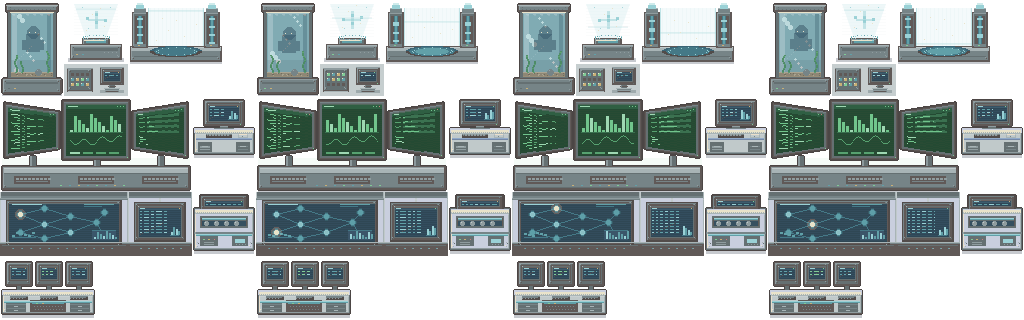
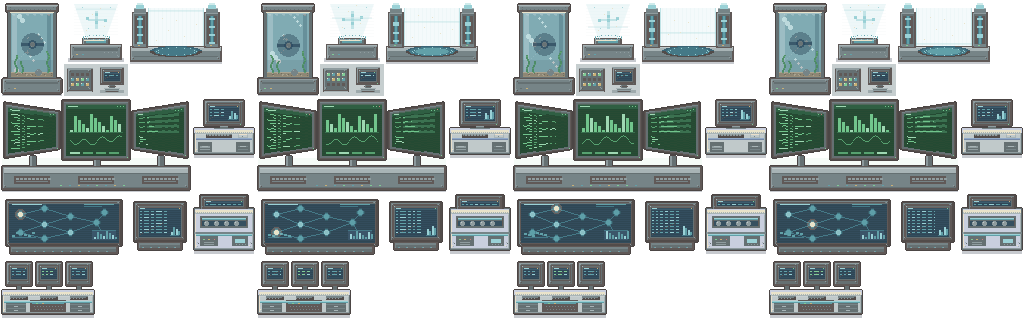
Update Overworld_map.js, tiles.js, lab_static.png … (editor)

diff --git a/js/Overworld_map.js b/js/Overworld_map.js
@@ -1728,8 +1728,8 @@ window.OverworldMaps = {
     "events": {
       "NPC_1": {
         "eventType": "NPC",
-        "xPos": 8,
-        "yPos": 3,
+        "xPos": 11,
+        "yPos": 5,
         "owID": "Trainer_1",
         "script": "",
         "movementType": "MOVEMENT_TYPE_SPIN_CLOCKWISE",
@@ -1737,12 +1737,12 @@ window.OverworldMaps = {
         "viewRadius": 3,
         "flagID": "",
         "spriteFx": "holo",
-        "fxColor": "blue"
+        "fxColor": "purple"
       },
       "Warp_1": {
         "eventType": "Warp",
-        "xPos": 4,
-        "yPos": 7,
+        "xPos": 6,
+        "yPos": 10,
         "map": "Olenburg City",
         "facing": "Up",
         "warpType": "Normal",
@@ -1750,8 +1750,8 @@ window.OverworldMaps = {
       },
       "Warp_1_copy": {
         "eventType": "Warp",
-        "xPos": 5,
-        "yPos": 7,
+        "xPos": 7,
+        "yPos": 10,
         "map": "Olenburg City",
         "facing": "Up",
         "warpType": "Normal",
@@ -1789,17 +1789,17 @@ window.OverworldMaps = {
       ]
     },
     "tileData_1": [
-      ["101|0|0", "101|0|0", "101|0|0", "101|0|0", "101|0|0", "101|0|0", "101|0|0", "101|0|0", "101|0|0", "101|0|0", "101|0|0", "101|32|1", "101|32|1", "101|32|1", "101|32|1", "101|32|1", "101|32|1", "101|32|1", "101|32|1", "101|32|1", "101|32|1", "101|32|1", "101|32|1", "101|32|1", "101|32|1", "101|32|1", "101|32|1", "101|32|1", "101|32|1", "101|32|1"],
-      ["101|14|0", "101|0|0", "101|0|0", "101|0|0", "101|0|0", "101|0|0", "101|0|0", "101|0|0", "101|0|0", "101|0|0", "101|0|0", "101|32|1", "101|32|1", "101|32|1", "101|32|1", "101|32|1", "101|32|1", "101|32|1", "101|32|1", "101|32|1", "101|32|1", "101|32|1", "101|32|1", "101|32|1", "101|32|1", "101|32|1", "101|32|1", "101|32|1", "101|32|1", "101|32|1"],
-      ["101|0|0", "101|0|0", "101|0|0", "101|0|0", "101|0|0", "101|0|0", "101|0|0", "101|0|0", "101|0|0", "101|0|0", "101|0|0", "101|32|1", "101|32|1", "101|32|1", "101|32|1", "101|32|1", "101|32|1", "101|32|1", "101|32|1", "101|32|1", "101|32|1", "101|32|1", "101|32|1", "101|32|1", "101|32|1", "101|32|1", "101|32|1", "101|32|1", "101|32|1", "101|32|1"],
-      ["101|0|0", "101|0|0", "101|0|0", "101|0|0", "101|0|0", "101|0|0", "101|0|0", "101|0|0", "101|0|0", "101|4|0", "101|0|0", "101|32|1", "101|32|1", "101|32|1", "101|32|1", "101|32|1", "101|32|1", "101|32|1", "101|32|1", "101|32|1", "101|32|1", "101|32|1", "101|32|1", "101|32|1", "101|32|1", "101|32|1", "101|32|1", "101|32|1", "101|32|1", "101|32|1"],
-      ["101|0|0", "101|0|0", "101|0|0", "101|0|0", "101|0|0", "101|0|0", "101|0|0", "101|0|0", "101|0|0", "101|4|0", "101|0|0", "101|32|1", "101|32|1", "101|32|1", "101|32|1", "101|32|1", "101|32|1", "101|32|1", "101|32|1", "101|32|1", "101|32|1", "101|32|1", "101|32|1", "101|32|1", "101|32|1", "101|32|1", "101|32|1", "101|32|1", "101|32|1", "101|32|1"],
-      ["101|3|0", "101|3|0", "101|3|0", "101|3|0", "101|3|0", "101|3|0", "101|3|0", "101|3|0", "101|3|0", "101|5|0", "101|3|0", "101|32|1", "101|32|1", "101|32|1", "101|32|1", "101|32|1", "101|32|1", "101|32|1", "101|32|1", "101|32|1", "101|32|1", "101|32|1", "101|32|1", "101|32|1", "101|32|1", "101|32|1", "101|32|1", "101|32|1", "101|32|1", "101|32|1"],
-      ["101|0|0", "101|0|0", "101|0|0", "101|0|0", "101|0|0", "101|0|0", "101|0|0", "101|0|0", "101|0|0", "101|4|0", "101|0|0", "101|32|1", "101|32|1", "101|32|1", "101|32|1", "101|32|1", "101|0|0", "101|0|0", "101|0|0", "101|0|0", "101|0|0", "101|0|0", "101|0|0", "101|0|0", "101|0|0", "101|0|0", "101|0|0", "101|0|0", "101|0|0", "101|0|0"],
-      ["101|0|0", "101|0|0", "101|0|0", "101|0|0", "101|0|0", "101|0|0", "101|0|0", "101|0|0", "101|0|0", "101|0|0", "101|0|0", "101|32|1", "101|32|1", "101|32|1", "101|32|1", "101|32|1", "101|0|0", "101|0|0", "101|0|0", "101|0|0", "101|0|0", "101|0|0", "101|0|0", "101|0|0", "101|0|0", "101|0|0", "101|0|0", "101|0|0", "101|0|0", "101|0|0"],
-      ["101|32|1", "101|32|1", "101|32|1", "101|32|1", "101|32|1", "101|32|1", "101|32|1", "101|32|1", "101|32|1", "101|32|1", "101|32|1", "101|32|1", "101|32|1", "101|32|1", "101|32|1", "101|32|1", "101|0|0", "101|0|0", "101|0|0", "101|0|0", "101|0|0", "101|0|0", "101|0|0", "101|0|0", "101|0|0", "101|0|0", "101|0|0", "101|0|0", "101|0|0", "101|0|0"],
-      ["101|32|1", "101|32|1", "101|32|1", "101|32|1", "101|32|1", "101|32|1", "101|32|1", "101|32|1", "101|32|1", "101|32|1", "101|32|1", "101|32|1", "101|32|1", "101|32|1", "101|32|1", "101|32|1", "101|0|0", "101|0|0", "101|0|0", "101|0|0", "101|0|0", "101|0|0", "101|0|0", "101|0|0", "101|0|0", "101|0|0", "101|0|0", "101|0|0", "101|0|0", "101|0|0"],
-      ["101|32|1", "101|32|1", "101|32|1", "101|32|1", "101|32|1", "101|32|1", "101|32|1", "101|32|1", "101|32|1", "101|32|1", "101|32|1", "101|32|1", "101|32|1", "101|32|1", "101|32|1", "101|32|1", "101|0|0", "101|0|0", "101|0|0", "101|0|0", "101|0|0", "101|0|0", "101|0|0", "101|0|0", "101|0|0", "101|0|0", "101|0|0", "101|0|0", "101|0|0", "101|0|0"],
+      ["101|0|0", "101|0|0", "101|0|0", "101|0|0", "101|0|0", "101|0|0", "101|0|0", "101|0|0", "101|0|0", "101|0|0", "101|0|0", "101|0|0", "101|0|0", "101|32|1", "101|32|1", "101|32|1", "101|32|1", "101|32|1", "101|32|1", "101|32|1", "101|32|1", "101|32|1", "101|32|1", "101|32|1", "101|32|1", "101|32|1", "101|32|1", "101|32|1", "101|32|1", "101|32|1"],
+      ["101|14|0", "101|0|0", "101|0|0", "101|0|0", "101|0|0", "101|0|0", "101|0|0", "101|0|0", "101|0|0", "101|0|0", "101|0|0", "101|0|0", "101|0|0", "101|32|1", "101|32|1", "101|32|1", "101|32|1", "101|32|1", "101|32|1", "101|32|1", "101|32|1", "101|32|1", "101|32|1", "101|32|1", "101|32|1", "101|32|1", "101|32|1", "101|32|1", "101|32|1", "101|32|1"],
+      ["101|0|0", "101|0|0", "101|0|0", "101|0|0", "101|0|0", "101|0|0", "101|0|0", "101|0|0", "101|0|0", "101|0|0", "101|0|0", "101|0|0", "101|0|0", "101|32|1", "101|32|1", "101|32|1", "101|32|1", "101|32|1", "101|32|1", "101|32|1", "101|32|1", "101|32|1", "101|32|1", "101|32|1", "101|32|1", "101|32|1", "101|32|1", "101|32|1", "101|32|1", "101|32|1"],
+      ["101|0|0", "101|0|0", "101|0|0", "101|0|0", "101|0|0", "101|0|0", "101|0|0", "101|0|0", "101|0|0", "101|4|0", "101|0|0", "101|0|0", "101|0|0", "101|32|1", "101|32|1", "101|32|1", "101|32|1", "101|32|1", "101|32|1", "101|32|1", "101|32|1", "101|32|1", "101|32|1", "101|32|1", "101|32|1", "101|32|1", "101|32|1", "101|32|1", "101|32|1", "101|32|1"],
+      ["101|0|0", "101|0|0", "101|0|0", "101|0|0", "101|0|0", "101|0|0", "101|0|0", "101|0|0", "101|0|0", "101|4|0", "101|0|0", "101|0|0", "101|0|0", "101|32|1", "101|32|1", "101|32|1", "101|32|1", "101|32|1", "101|32|1", "101|32|1", "101|32|1", "101|32|1", "101|32|1", "101|32|1", "101|32|1", "101|32|1", "101|32|1", "101|32|1", "101|32|1", "101|32|1"],
+      ["101|3|0", "101|3|0", "101|3|0", "101|3|0", "101|3|0", "101|3|0", "101|3|0", "101|3|0", "101|3|0", "101|5|0", "101|3|0", "101|3|0", "101|3|0", "101|32|1", "101|32|1", "101|32|1", "101|32|1", "101|32|1", "101|32|1", "101|32|1", "101|32|1", "101|32|1", "101|32|1", "101|32|1", "101|32|1", "101|32|1", "101|32|1", "101|32|1", "101|32|1", "101|32|1"],
+      ["101|0|0", "101|0|0", "101|0|0", "101|0|0", "101|0|0", "101|0|0", "101|0|0", "101|0|0", "101|0|0", "101|4|0", "101|0|0", "101|0|0", "101|0|0", "101|32|1", "101|32|1", "101|32|1", "101|0|0", "101|0|0", "101|0|0", "101|0|0", "101|0|0", "101|0|0", "101|0|0", "101|0|0", "101|0|0", "101|0|0", "101|0|0", "101|0|0", "101|0|0", "101|0|0"],
+      ["101|0|0", "101|0|0", "101|0|0", "101|0|0", "101|0|0", "101|0|0", "101|0|0", "101|0|0", "101|0|0", "101|4|0", "101|0|0", "101|0|0", "101|0|0", "101|32|1", "101|32|1", "101|32|1", "101|0|0", "101|0|0", "101|0|0", "101|0|0", "101|0|0", "101|0|0", "101|0|0", "101|0|0", "101|0|0", "101|0|0", "101|0|0", "101|0|0", "101|0|0", "101|0|0"],
+      ["101|0|0", "101|0|0", "101|0|0", "101|0|0", "101|0|0", "101|0|0", "101|0|0", "101|0|0", "101|0|0", "101|4|0", "101|0|0", "101|0|0", "101|0|0", "101|32|1", "101|32|1", "101|32|1", "101|0|0", "101|0|0", "101|0|0", "101|0|0", "101|0|0", "101|0|0", "101|0|0", "101|0|0", "101|0|0", "101|0|0", "101|0|0", "101|0|0", "101|0|0", "101|0|0"],
+      ["101|0|0", "101|0|0", "101|0|0", "101|0|0", "101|0|0", "101|0|0", "101|0|0", "101|0|0", "101|0|0", "101|4|0", "101|0|0", "101|0|0", "101|0|0", "101|32|1", "101|32|1", "101|32|1", "101|0|0", "101|0|0", "101|0|0", "101|0|0", "101|0|0", "101|0|0", "101|0|0", "101|0|0", "101|0|0", "101|0|0", "101|0|0", "101|0|0", "101|0|0", "101|0|0"],
+      ["101|0|0", "101|0|0", "101|0|0", "101|0|0", "101|0|0", "101|0|0", "101|0|0", "101|0|0", "101|0|0", "101|4|0", "101|0|0", "101|0|0", "101|0|0", "101|32|1", "101|32|1", "101|32|1", "101|0|0", "101|0|0", "101|0|0", "101|0|0", "101|0|0", "101|0|0", "101|0|0", "101|0|0", "101|0|0", "101|0|0", "101|0|0", "101|0|0", "101|0|0", "101|0|0"],
       ["101|32|1", "101|32|1", "101|32|1", "101|32|1", "101|32|1", "101|32|1", "101|32|1", "101|32|1", "101|32|1", "101|32|1", "101|32|1", "101|32|1", "101|32|1", "101|32|1", "101|32|1", "101|32|1", "101|0|0", "101|0|0", "101|0|0", "101|0|0", "101|0|0", "101|0|0", "101|0|0", "101|0|0", "101|0|0", "101|0|0", "101|0|0", "101|0|0", "101|0|0", "101|0|0"],
       ["101|32|1", "101|32|1", "101|32|1", "101|32|1", "101|32|1", "101|32|1", "101|32|1", "101|32|1", "101|32|1", "101|32|1", "101|32|1", "101|32|1", "101|32|1", "101|32|1", "101|32|1", "101|32|1", "101|0|0", "101|0|0", "101|0|0", "101|0|0", "101|0|0", "101|0|0", "101|0|0", "101|0|0", "101|0|0", "101|0|0", "101|0|0", "101|0|0", "101|0|0", "101|0|0"],
       ["101|32|1", "101|32|1", "101|32|1", "101|32|1", "101|32|1", "101|32|1", "101|32|1", "101|32|1", "101|32|1", "101|32|1", "101|32|1", "101|32|1", "101|32|1", "101|32|1", "101|32|1", "101|32|1", "101|0|0", "101|0|0", "101|0|0", "101|0|0", "101|0|0", "101|0|0", "101|0|0", "101|0|0", "101|0|0", "101|0|0", "101|0|0", "101|0|0", "101|0|0", "101|0|0"],
@@ -1811,14 +1811,14 @@ window.OverworldMaps = {
       ["101|0|0", "101|0|0", "101|0|0", "101|0|0", "101|0|0", "101|0|0", "101|0|0", "101|0|0", "101|0|0", "101|0|0", "101|0|0", "101|0|0", "101|0|0", "101|0|0", "101|0|0", "101|0|0", "101|0|0", "101|0|0", "101|0|0", "101|0|0", "101|0|0", "101|0|0", "101|0|0", "101|0|0", "101|0|0", "101|0|0", "101|0|0", "101|0|0", "101|0|0", "101|0|0"]
     ],
     "tileData_2": [
-      ["101|9|1", "101|9|1", "101|9|1", "101|9|1", "101|9|1", "101|9|1", "101|9|1", "101|9|1", "101|9|1", "101|9|1", "101|9|1", "", "", "", "", "", "", "", "", "", "", "", "", "", "", "", "", "", "", ""],
-      ["101|14|1", "101|10|1", "101|10|1", "101|10|1", "101|10|1", "101|10|1", "101|10|1", "101|10|1", "101|10|1", "101|10|1", "101|15|1", "", "", "", "", "", "", "", "", "", "", "", "", "", "", "", "", "", "", ""],
-      ["101|16|1", "101|11|1", "101|11|1", "101|11|1", "101|11|1", "101|11|1", "101|11|1", "101|11|1", "101|11|1", "101|11|1", "101|17|1", "", "", "", "", "", "", "", "", "", "", "", "", "", "", "", "", "", "", ""],
-      ["101|45|0", "", "102|34|1", "", "", "", "", "", "", "", "101|46|0", "", "", "", "", "", "", "", "", "", "", "", "", "", "", "", "", "", "", ""],
+      ["101|9|1", "101|9|1", "101|9|1", "101|9|1", "101|9|1", "101|9|1", "101|9|1", "101|9|1", "101|9|1", "101|9|1", "101|9|1", "101|9|1", "101|9|1", "", "", "", "", "", "", "", "", "", "", "", "", "", "", "", "", ""],
+      ["101|14|1", "101|10|1", "101|10|1", "101|10|1", "101|10|1", "101|10|1", "101|10|1", "101|10|1", "101|10|1", "101|10|1", "101|10|1", "101|10|1", "101|15|1", "", "", "", "", "", "", "", "", "", "", "", "", "", "", "", "", ""],
+      ["101|16|1", "101|11|1", "101|11|1", "101|11|1", "101|11|1", "101|11|1", "101|11|1", "101|11|1", "101|11|1", "101|11|1", "101|11|1", "101|11|1", "101|17|1", "", "", "", "", "", "", "", "", "", "", "", "", "", "", "", "", ""],
       ["101|45|0", "", "", "", "", "", "", "", "", "", "101|46|0", "", "", "", "", "", "", "", "", "", "", "", "", "", "", "", "", "", "", ""],
-      ["101|45|0", "", "", "101|83|1", "", "", "", "", "", "", "101|46|0", "", "", "", "", "", "", "", "", "", "", "", "", "", "", "", "", "", "", ""],
       ["101|45|0", "", "", "", "", "", "", "", "", "", "101|46|0", "", "", "", "", "", "", "", "", "", "", "", "", "", "", "", "", "", "", ""],
-      ["", "", "", "", "", "", "", "", "", "101|4|0", "", "", "", "", "", "", "", "", "", "", "", "", "", "", "", "", "", "", "", ""],
+      ["101|45|0", "", "", "", "", "", "", "", "", "", "101|46|0", "", "", "", "", "", "", "", "", "", "", "", "", "", "", "", "", "", "", ""],
+      ["101|45|0", "", "", "", "", "", "", "", "", "", "101|46|0", "", "", "", "", "", "", "", "", "", "", "", "", "", "", "", "", "", "", ""],
+      ["", "", "", "", "", "", "", "", "", "", "", "", "", "", "", "", "", "", "", "", "", "", "", "", "", "", "", "", "", ""],
       ["", "", "", "", "", "", "", "", "", "", "", "", "", "", "", "", "", "", "", "", "", "", "", "", "", "", "", "", "", ""],
       ["", "", "", "", "", "", "", "", "", "", "", "", "", "", "", "", "", "", "", "", "", "", "", "", "", "", "", "", "", ""],
       ["", "", "", "", "", "", "", "", "", "", "", "", "", "", "", "", "", "", "", "", "", "", "", "", "", "", "", "", "", ""],
@@ -1834,16 +1834,16 @@ window.OverworldMaps = {
     ],
     "tileData_3": [
       ["", "", "", "", "", "", "", "", "", "", "", "", "", "", "", "", "", "", "", "", "", "", "", "", "", "", "", "", "", ""],
-      ["", "101|10|1", "101|50|1", "101|51|1", "101|88|1", "101|89|1", "101|90|1", "101|91|1", "101|56|1", "101|57|1", "", "", "", "", "", "", "", "", "", "", "", "", "", "", "", "", "", "", "", ""],
-      ["", "101|25|1", "101|66|1", "101|67|1", "101|104|1", "101|105|1", "101|106|1", "101|107|1", "101|72|1", "101|73|1", "", "", "", "", "", "", "", "", "", "", "", "", "", "", "", "", "", "", "", ""],
-      ["", "101|41|1", "", "", "", "", "", "", "102|2|2", "102|3|2", "", "", "", "", "", "", "", "", "", "", "", "", "", "", "", "", "", "", "", ""],
-      ["", "101|54|2", "101|55|2", "", "", "", "", "", "102|18|1", "102|19|1", "", "", "", "", "", "", "", "", "", "", "", "", "", "", "", "", "", "", "", ""],
-      ["", "101|70|1", "101|71|1", "", "", "", "", "", "", "", "", "", "", "", "", "", "", "", "", "", "", "", "", "", "", "", "", "", "", ""],
+      ["103|0|2", "103|1|2", "103|2|2", "103|3|2", "102|192|1", "102|193|1", "102|194|1", "102|195|1", "102|196|1", "102|197|1", "101|162|1", "101|163|1", "", "", "", "", "", "", "", "", "", "", "", "", "", "", "", "", "", ""],
+      ["103|4|2", "103|5|2", "103|6|2", "103|7|2", "102|224|1", "102|225|1", "102|226|1", "102|227|1", "102|228|1", "102|229|1", "102|256|1", "102|257|1", "102|258|1", "", "", "", "", "", "", "", "", "", "", "", "", "", "", "", "", ""],
+      ["103|8|1", "103|9|1", "103|10|1", "103|11|1", "", "", "", "", "", "", "102|288|1", "102|289|1", "102|290|1", "", "", "", "", "", "", "", "", "", "", "", "", "", "", "", "", ""],
+      ["103|12|1", "103|13|1", "103|14|1", "103|15|1", "", "", "", "", "", "", "", "", "", "", "", "", "", "", "", "", "", "", "", "", "", "", "", "", "", ""],
       ["", "", "", "", "", "", "", "", "", "", "", "", "", "", "", "", "", "", "", "", "", "", "", "", "", "", "", "", "", ""],
       ["", "", "", "", "", "", "", "", "", "", "", "", "", "", "", "", "", "", "", "", "", "", "", "", "", "", "", "", "", ""],
       ["", "", "", "", "", "", "", "", "", "", "", "", "", "", "", "", "", "", "", "", "", "", "", "", "", "", "", "", "", ""],
       ["", "", "", "", "", "", "", "", "", "", "", "", "", "", "", "", "", "", "", "", "", "", "", "", "", "", "", "", "", ""],
-      ["", "", "", "", "", "", "", "", "", "", "", "", "", "", "", "", "", "", "", "", "", "", "", "", "", "", "", "", "", ""],
+      ["102|2|2", "102|3|2", "", "", "", "", "", "", "", "", "", "102|2|2", "102|3|2", "", "", "", "", "", "", "", "", "", "", "", "", "", "", "", "", ""],
+      ["102|34|1", "102|35|1", "", "", "", "", "", "", "", "", "", "102|34|1", "102|35|1", "", "", "", "", "", "", "", "", "", "", "", "", "", "", "", "", ""],
       ["", "", "", "", "", "", "", "", "", "", "", "", "", "", "", "", "", "", "", "", "", "", "", "", "", "", "", "", "", ""],
       ["", "", "", "", "", "", "", "", "", "", "", "", "", "", "", "", "", "", "", "", "", "", "", "", "", "", "", "", "", ""],
       ["", "", "", "", "", "", "", "", "", "", "", "", "", "", "", "", "", "", "", "", "", "", "", "", "", "", "", "", "", ""],
@@ -1859,11 +1859,11 @@ window.OverworldMaps = {
       ["", "", "", "", "", "", "", "", "", "", "", "", "", "", "", "", "", "", "", "", "", "", "", "", "", "", "", "", "", ""],
       ["", "", "", "", "", "", "", "", "", "", "", "", "", "", "", "", "", "", "", "", "", "", "", "", "", "", "", "", "", ""],
       ["", "", "", "", "", "", "", "", "", "", "", "", "", "", "", "", "", "", "", "", "", "", "", "", "", "", "", "", "", ""],
+      ["102|96|2", "102|97|2", "102|98|2", "102|99|2", "102|100|2", "102|101|2", "", "", "", "", "", "", "", "", "", "", "", "", "", "", "", "", "", "", "", "", "", "", "", ""],
+      ["102|128|2", "102|129|2", "102|130|2", "102|131|2", "102|132|2", "102|133|2", "102|198|2", "102|199|2", "", "", "102|4|2", "102|5|2", "102|6|2", "", "", "", "", "", "", "", "", "", "", "", "", "", "", "", "", ""],
+      ["102|160|1", "102|161|1", "102|162|1", "102|163|1", "102|164|1", "102|165|1", "102|230|1", "102|231|1", "", "", "102|36|1", "102|37|1", "102|38|1", "", "", "", "", "", "", "", "", "", "", "", "", "", "", "", "", ""],
       ["", "", "", "", "", "", "", "", "", "", "", "", "", "", "", "", "", "", "", "", "", "", "", "", "", "", "", "", "", ""],
       ["", "", "", "", "", "", "", "", "", "", "", "", "", "", "", "", "", "", "", "", "", "", "", "", "", "", "", "", "", ""],
-      ["", "101|20|1", "", "", "", "", "", "", "", "", "", "", "", "", "", "", "", "", "", "", "", "", "", "", "", "", "", "", "", ""],
-      ["101|45|1", "", "", "", "46|77|1", "46|78|1", "", "", "", "", "101|46|1", "", "", "", "", "", "", "", "", "", "", "", "", "", "", "", "", "", "", ""],
-      ["", "", "", "", "46|86|1", "46|87|1", "", "", "", "", "", "", "", "", "", "", "", "", "", "", "", "", "", "", "", "", "", "", "", ""],
       ["", "", "", "", "", "", "", "", "", "", "", "", "", "", "", "", "", "", "", "", "", "", "", "", "", "", "", "", "", ""],
       ["", "", "", "", "", "", "", "", "", "", "", "", "", "", "", "", "", "", "", "", "", "", "", "", "", "", "", "", "", ""],
       ["", "", "", "", "", "", "", "", "", "", "", "", "", "", "", "", "", "", "", "", "", "", "", "", "", "", "", "", "", ""],
@@ -1883,12 +1883,12 @@ window.OverworldMaps = {
       ["", "", "", "", "", "", "", "", "", "", "", "", "", "", "", "", "", "", "", "", "", "", "", "", "", "", "", "", "", ""],
       ["", "", "", "", "", "", "", "", "", "", "", "", "", "", "", "", "", "", "", "", "", "", "", "", "", "", "", "", "", ""],
       ["", "", "", "", "", "", "", "", "", "", "", "", "", "", "", "", "", "", "", "", "", "", "", "", "", "", "", "", "", ""],
+      ["47|22|2", "", "", "", "", "", "", "", "", "", "", "", "", "", "", "", "", "", "", "", "", "", "", "", "", "", "", "", "", ""],
+      ["47|31|1", "", "", "", "", "", "", "", "", "", "", "", "", "", "", "", "", "", "", "", "", "", "", "", "", "", "", "", "", ""],
       ["", "", "", "", "", "", "", "", "", "", "", "", "", "", "", "", "", "", "", "", "", "", "", "", "", "", "", "", "", ""],
       ["", "", "", "", "", "", "", "", "", "", "", "", "", "", "", "", "", "", "", "", "", "", "", "", "", "", "", "", "", ""],
-      ["", "", "", "", "", "", "", "", "", "", "", "", "", "", "", "", "", "", "", "", "", "", "", "", "", "", "", "", "", ""],
-      ["", "", "", "", "", "", "", "", "", "", "", "", "", "", "", "", "", "", "", "", "", "", "", "", "", "", "", "", "", ""],
-      ["", "", "", "", "", "", "", "", "", "", "", "", "", "", "", "", "", "", "", "", "", "", "", "", "", "", "", "", "", ""],
-      ["", "", "", "", "", "", "", "", "", "", "", "", "", "", "", "", "", "", "", "", "", "", "", "", "", "", "", "", "", ""],
+      ["", "", "46|85|1", "", "", "", "46|77|0", "46|78|0", "", "", "46|85|1", "", "", "", "", "", "", "", "", "", "", "", "", "", "", "", "", "", "", ""],
+      ["", "", "", "", "", "", "46|86|0", "46|87|0", "", "", "", "", "", "", "", "", "", "", "", "", "", "", "", "", "", "", "", "", "", ""],
       ["", "", "", "", "", "", "", "", "", "", "", "", "", "", "", "", "", "", "", "", "", "", "", "", "", "", "", "", "", ""],
       ["", "", "", "", "", "", "", "", "", "", "", "", "", "", "", "", "", "", "", "", "", "", "", "", "", "", "", "", "", ""],
       ["", "", "", "", "", "", "", "", "", "", "", "", "", "", "", "", "", "", "", "", "", "", "", "", "", "", "", "", "", ""],

diff --git a/tables/tiles.js b/tables/tiles.js
@@ -743,5 +743,16 @@ window.OverworldTiles = {
     tileImage: "graphics/tiles/lab_anim.png",
     tileDimension: "1024x320",
     category: "Laboratory"
+  },
+  103: {
+    tileID: 103,
+    tileName: "PokeBall Tube",
+    tileType: "Multi-tile",
+    isAnimated: false,
+    frames: 16,
+    columns: 4,
+    tileImage: "graphics/tiles/pokeball_tube.png",
+    tileDimension: "64x64",
+    category: "Laboratory"
   }
 };
